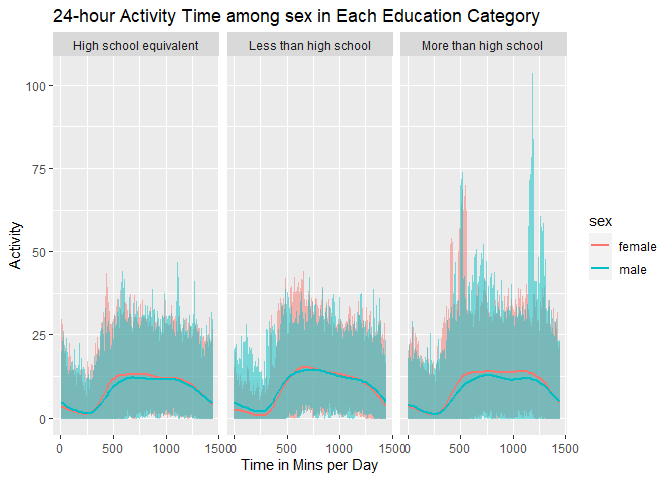
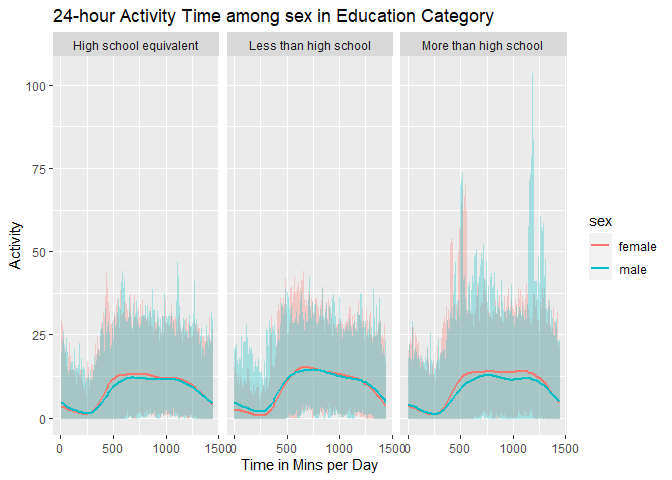
changes on problem 3 last answer.

Changed region(s): [[0.0938, 0.3125, 0.8438, 0.875], [0.5, 0.0, 0.8125, 0.0625]]

diff --git a/p8105_hw3_yz4719.md b/p8105_hw3_yz4719.md
@@ -506,10 +506,10 @@ their age reaches more than 40.
 ``` r
 group_24_activity = nhances_all|> 
   ggplot(aes(x=minute, y=activity, color=sex))+
-  geom_line(alpha=0.5)+
-  geom_smooth(se = FALSE)+
+  geom_line(alpha=0.3)+
   facet_grid(.~education)+
-  labs(title = "24-hour Activity Time among sex in Each Education Category",
+  geom_smooth(se = FALSE)+
+  labs(title = "24-hour Activity Time among sex in Education Category",
        x= "Time in Mins per Day",
        y= "Activity")
 group_24_activity
@@ -520,5 +520,7 @@ group_24_activity
 ![](p8105_hw3_yz4719_files/figure-gfm/unnamed-chunk-16-1.png)<!-- -->
 
 It shows the 24-hour activity time for both sex in three education
-levels. It shows that most activities during 500-1000 mins in a day and
-least activities during 0-250 mins of a day.
+levels. this shows a low activities during 0-250 mins of a day among all
+three education levels, and in high school level and more than high
+school level of education, female seems to active more than men on a
+average scale.
